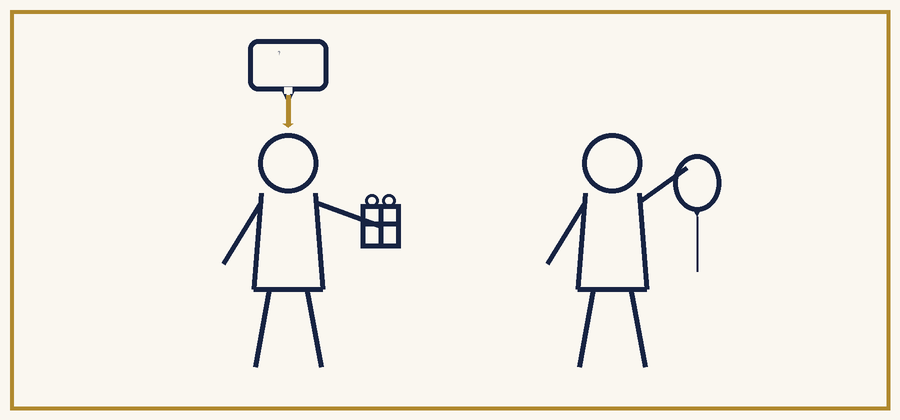
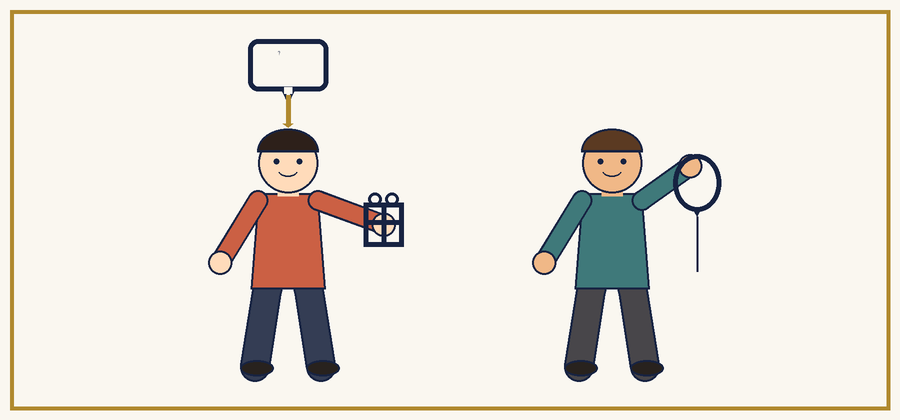
Ubah ilustrasi Mendengarkan Paket B jadi flat-color, bukan garis polos
Versi sebelumnya (garis navy saja di atas krem) dirasa kurang natural.
Karakter sekarang digambar dengan bentuk terisi warna: kulit, rambut,
baju, celana (beberapa palet warna berbeda antar karakter supaya
mudah dibedakan saat ada 2 orang dalam satu adegan), plus wajah
sederhana (mata + senyum). Payung mondai2 juga diberi warna kanopi
berbeda per pilihan (tosca/biru/terracotta+motif bunga/hitam pekat)
alih-alih cuma garis. Tetap digambar langsung dengan Pillow (bukan
API image-gen berbayar), sesuai arahan pakai kemampuan menggambar
sendiri.

Deskripsi paket diperbarui, cache service worker naik ke v182.

Changed region(s): [[0.2178, 0.3095, 0.4667, 0.9286], [0.5911, 0.3095, 0.7778, 0.9286]]

diff --git a/js/pages/latihan.js b/js/pages/latihan.js
@@ -136,7 +136,7 @@ const mockTestPackages={
   },
   "jlpt-n5-tp2":{
     label:"JLPT N5 · Paket B (Latihan)",
-    source:"Paket latihan orisinal (bukan dari dokumen resmi JLPT) - struktur & jumlah soal per もんだい dibuat identik dengan paket JLPT N5 · Contoh Resmi, kosakata & konteksnya semua berbeda. Audio dibuat dengan suara sintesis (text-to-speech) karena tidak ada rekaman asli untuk kosakata baru ini; gambar soal mendengarkan bergambar berupa ilustrasi garis sederhana (dibuat khusus, bukan aset resmi JLPT).",
+    source:"Paket latihan orisinal (bukan dari dokumen resmi JLPT) - struktur & jumlah soal per もんだい dibuat identik dengan paket JLPT N5 · Contoh Resmi, kosakata & konteksnya semua berbeda. Audio dibuat dengan suara sintesis (text-to-speech) karena tidak ada rekaman asli untuk kosakata baru ini; gambar soal mendengarkan bergambar berupa ilustrasi flat-color sederhana (dibuat khusus, bukan aset resmi JLPT).",
     questions:[
       {category:"Kosakata JLPT",instruction:"＿＿＿の ことばは ひらがなで どう かきますか。1・2・3・4から いちばん いい ものを ひとつ えらんでください。",html:"きょうは とても <u>忙しい</u>です。",options:["いぞがしい","いそかしい","いそがしい","いぞかしい"],answer:2,explanation:"忙しい dibaca いそがしい, berarti sibuk.",material:"JLPT N5 - Paket B (Latihan) · kanji_reading"},
       {category:"Kosakata JLPT",instruction:"＿＿＿の ことばは ひらがなで どう かきますか。1・2・3・4から いちばん いい ものを ひとつ えらんでください。",html:"<u>財布</u>を わすれました。",options:["ざいぶ","さいふ","ざいふ","さいぶ"],answer:1,explanation:"財布 dibaca さいふ, berarti dompet.",material:"JLPT N5 - Paket B (Latihan) · kanji_reading"},

diff --git a/sw.js b/sw.js
@@ -1,7 +1,7 @@
 // Satu-satunya angka yang perlu dinaikkan setiap kali ada file di ASSETS
 // yang isinya berubah (JS/CSS/data/gambar). Tanpa ini, service worker
 // akan terus menyajikan versi lama dari cache ke user yang sudah install.
-const CACHE_NAME = 'nihon-go-benkyo-v181';
+const CACHE_NAME = 'nihon-go-benkyo-v182';
 const ASSETS = [
   'index.html',
   'css/base.css', 'css/shell.css', 'css/auth.css',
